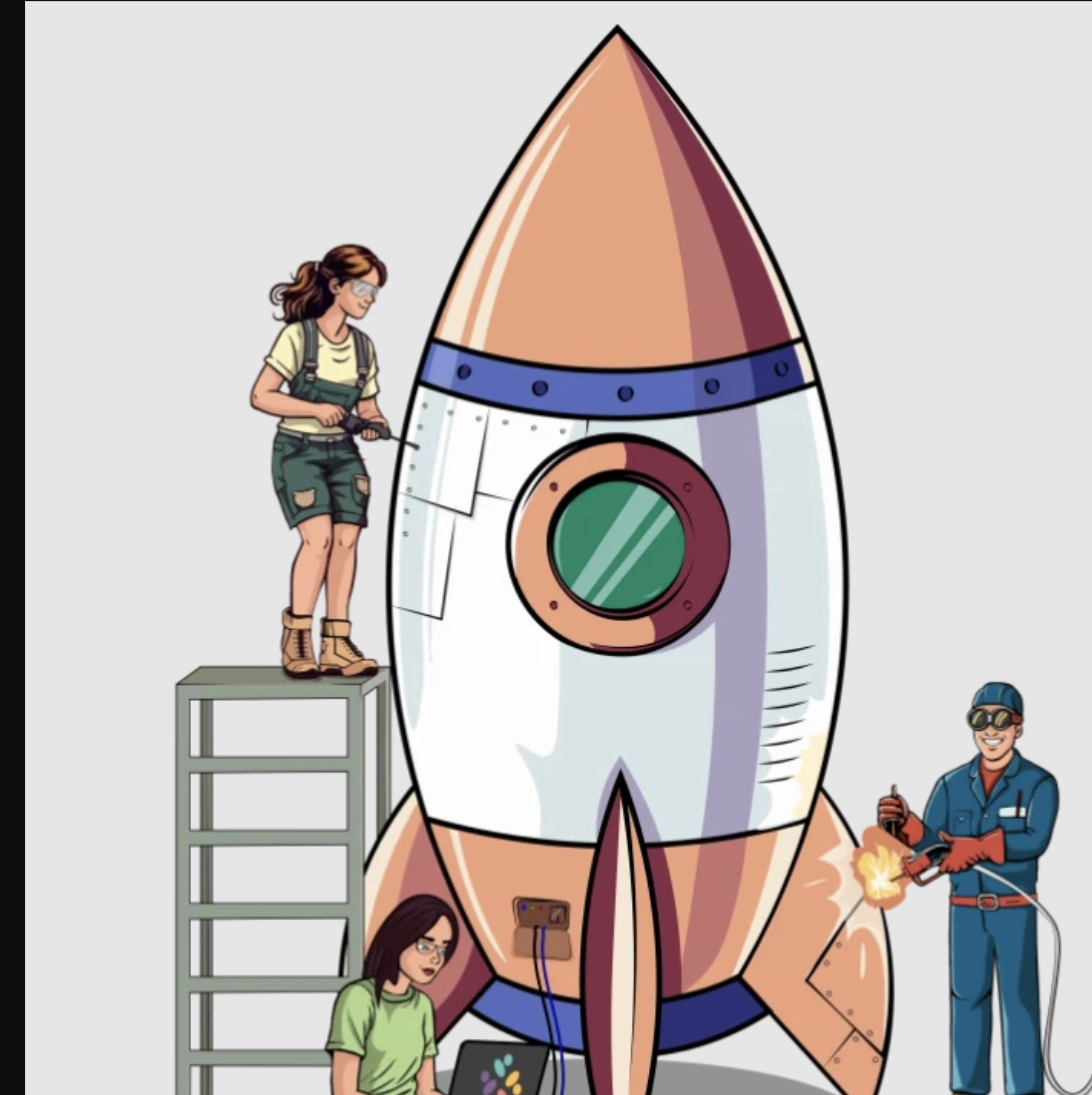
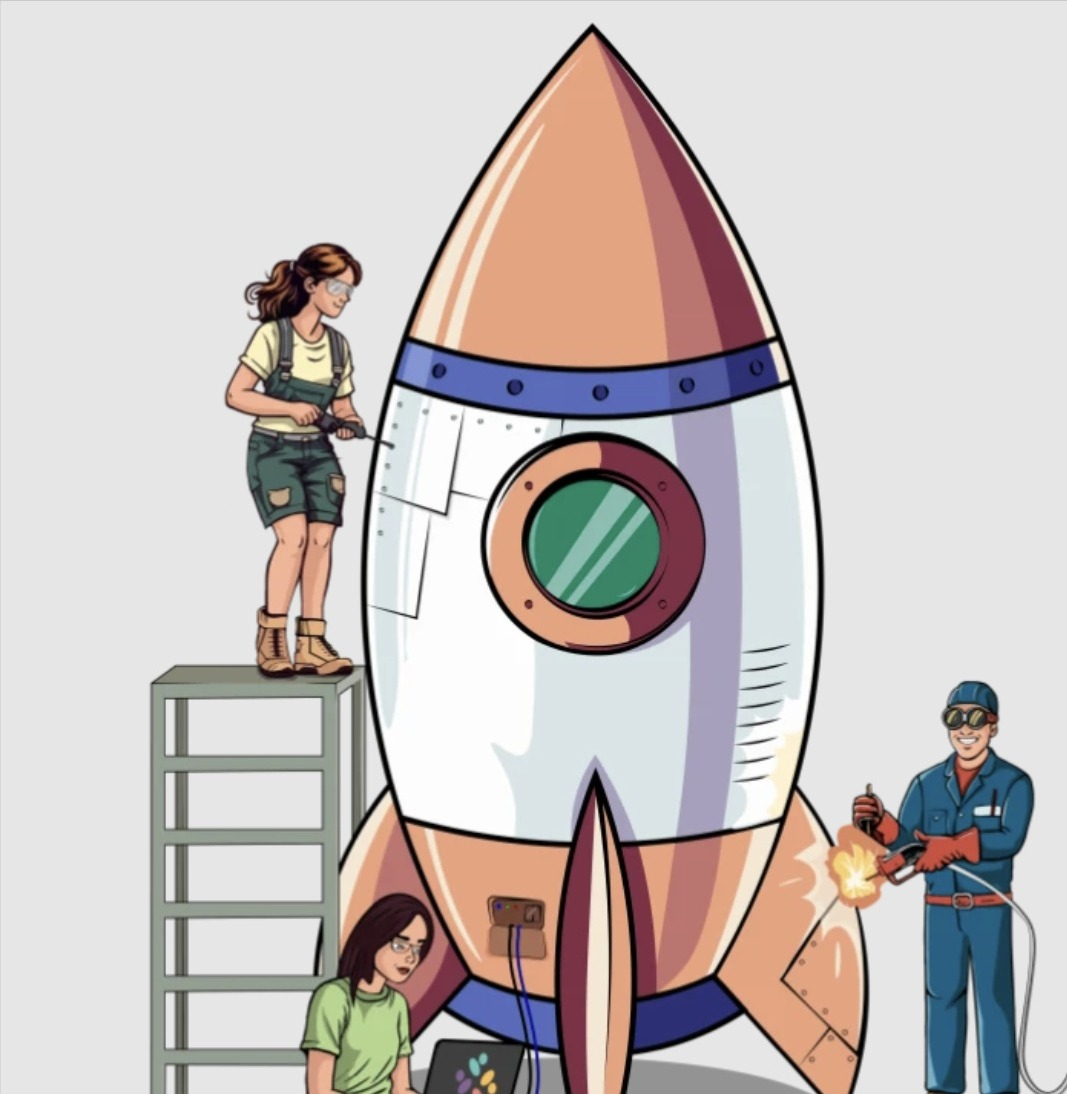
Fix bad crops: rocket cover (black bar artifact) and pop-art portrait (cut-off chin)
- rocket: retrim capture artifact on left edge
- pop-art portrait: replaced with full uncropped source, ratio corrected to tall (9:16)

Changed region(s): [[0.1856, 0.0, 0.9897, 1.0], [0.1237, 0.5905, 0.2165, 1.0], [0.0, 0.0, 0.0309, 1.0]]

diff --git a/src/lib/projects.ts b/src/lib/projects.ts
@@ -1777,7 +1777,7 @@ export const projects: Project[] = [
       },
       {
         caption: "Портрет в поп-арт стиле",
-        ratio: "landscape",
+        ratio: "tall",
         src: "/work/other/illustrations/pop-art-portrait.jpg",
       },
       {
